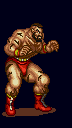
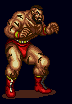
- Darkened ChunLi and Zangief sprite-sheets so that they look nicer (dark edges on characters) - Added an initial cut mechanism into the tool - Re-cut several Zangief and ChunLi sprites

diff --git a/sf2tool.py b/sf2tool.py
@@ -93,7 +93,7 @@ class MyFrame(wx.Frame):
     self.lstAnims = self.create_labeled_list_box(panel, label='ANIMS', pos=(255,0), size=(100,360), choices=['aaa', 'bbb'])
     self.lstAnims.Bind(wx.EVT_LISTBOX, self.OnLstAnimsSelectionChanged)
     # I think these two should be panes that I turn on/off based on whether a PNGS or ANIMS item is selected
-    self.pnlHitboxes = self.create_hitboxes_panel(panel, pos=(355,0), size=(200,300))
+    self.pnlHitboxes = self.create_hitboxes_panel(panel, pos=(355,0), size=(215,300))
     self.pnlAnimDetails = self.create_animdetails_panel(panel, pos=(355,0), size=(200,300))
 
     self.pnlHitboxes.Hide()
@@ -134,6 +134,9 @@ class MyFrame(wx.Frame):
     itempos[1] += 30
     self.txtCrop = self.create_text_field(hbpanel, tuple(itempos), "Crop Dim:", "")
 
+    self.btnCut = wx.Button(hbpanel, label='Cut', pos=(itempos[0]+170,itempos[1]), size=(40,25))
+    self.btnCut.Bind(event=wx.EVT_BUTTON, handler=self.OnBtnCutClicked)
+
     itempos[1] += 30
     self.lblPngSize = self.create_static_field(hbpanel, tuple(itempos), "Size:", "???")
 
@@ -146,6 +149,27 @@ class MyFrame(wx.Frame):
         initialvalue, self.OnTxtHboxEnter))
 
     return hbpanel
+
+  # - - - - - - - - - - - - - - - - - - -
+
+  def OnBtnCutClicked(self, event):
+    print('clicked')
+    # cut the image from the sprite-sheet at the coords specified by crop-dim field
+    cropvals = [int(i) for i in self.txtCrop.GetValue().split(',')]
+    [self.sx, self.sy, self.sw, self.sh] = cropvals
+    self.update_cropdim()
+    dbmp = wx.Bitmap(self.sw, self.sh, depth=16)
+
+    sheetbmp = self.sprsheet.ConvertToBitmap()
+    sourcedc = wx.MemoryDC(sheetbmp)
+    destdc=wx.MemoryDC(dbmp)
+    destdc.Blit(0, 0, self.sw, self.sh, sourcedc, self.sx, self.sy, wx.COPY)
+
+    # save out the new bitmap
+    dbmp.SaveFile(self.pngPath, wx.BITMAP_TYPE_PNG)
+
+    # redraw png
+    self.OnLstPngsSelectionChanged(None)
 
   # - - - - - - - - - - - - - - - - - - -
 
@@ -240,7 +264,10 @@ class MyFrame(wx.Frame):
     sprsheet = os.path.join(settings.projpath, sprsheet)
     if os.path.exists(sprsheet):
       self.load_plain_image(sprsheet)
+      self.sprsheet = self.img
       self.OverlayPng()
+    else:
+      self.sprsheet = None
 
   # - - - - - - - - - - - - - - - - - - -
 
@@ -298,11 +325,11 @@ class MyFrame(wx.Frame):
   def OnLstPngsSelectionChanged(self, event):
     self.mode = self.Mode.Png
     self._UpdatePngDetails()
-    pngPath = os.path.join(settings.projpath, self.selectedGroup, self.selectedPng + ".png")
+    self.pngPath = os.path.join(settings.projpath, self.selectedGroup, self.selectedPng + ".png")
     self.pnlHitboxes.Show()
     self.pnlAnimDetails.Hide()
     self.lstAnims.SetSelection(wx.NOT_FOUND)
-    self.load_image(pngPath)
+    self.load_image(self.pngPath)
     self.lblPngSize.SetLabel("{}x{}".format(self.img.GetWidth(), self.img.GetHeight()))
 
     # debug info
